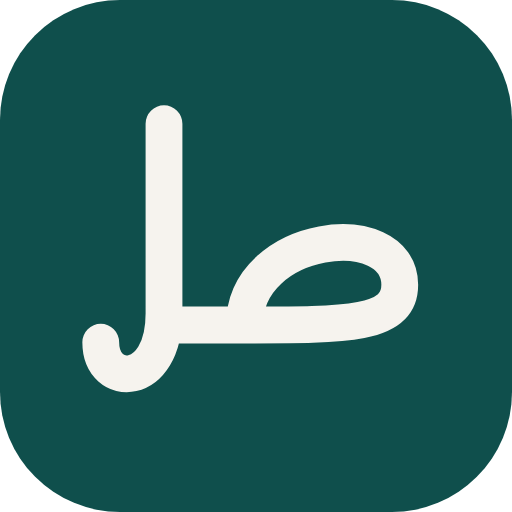
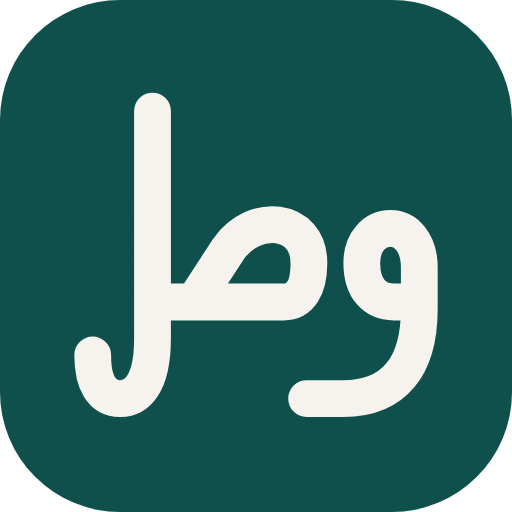
Brand mark: spell the full word وصل instead of صل
Redraw MASTER (32 grid, 3.2 stroke) and HINTED (16 grid, 2 stroke) from
IBM Plex Sans Arabic's shaped وصل: the ل with ascender and descender bowl,
the baseline into the ص bowl, and the non-joining و with its tail tucked
under the ص. The ص tooth is dropped so the bowl stays open at small sizes.
The hinted drawing keeps a one-pixel gap between ل and ص and a one-pixel
hole in the ص bowl.

Regenerate icon.svg, apple-icon, favicon.ico and the 192/512/maskable
PNGs with scripts/build-brand.tsx, whose bare-mark bounds now span 31.6
of 32 units.

Changed region(s): [[0.125, 0.1562, 0.875, 0.8125]]

diff --git a/web/components/brand/mark.tsx b/web/components/brand/mark.tsx
@@ -11,18 +11,25 @@ export const BRAND = {
   sand: "#efe8dc",
 } as const;
 
-/** صل (صِلْ, "connect") from وصل: the ص bowl, the baseline and the ل as one stroke. */
+/**
+ * وصل ("connect", "link") in three strokes, redrawn from IBM Plex Sans Arabic's joined وصل as a single weight:
+ * the ل with its ascender and descender bowl, the baseline running into the ص bowl, and the non-joining و whose tail
+ * tucks under the ص. Condensed to fit the square; the ص tooth is dropped so the bowl stays open at small sizes.
+ */
 export const MASTER = {
   grid: 32,
   stroke: 3.2,
-  d: "M8 4.5V21C8 27.5 2.5 27.5 2.5 23.5M8 22H15C15 14 28.5 12.5 28.5 18.5C28.5 22 24 22 15 22",
+  d: "M7 3.4V23.2C7 27.2 5.6 28.4 4.2 28.4C2.6 28.4 1.8 27 1.8 24.6M7 20H18.4C19.8 20 20.6 18.8 20.6 16.6C20.6 12.6 15.8 12.2 13.6 15.4L10.6 20M20.4 28.4H23.6C28 28.4 30.2 25.6 30.2 20.6V17C30.2 14.8 29 13.6 27.7 13.6C26.3 13.6 25.2 14.8 25.2 16.6C25.2 18.8 26.3 20 28 20H30.2",
 } as const;
 
-/** The 16px drawing: stem on x=5 and baseline on y=11, so both 2px strokes land on whole pixels. Already inset for the tile. */
+/**
+ * The 16px drawing: ل stem on x=4, baseline on y=11 and the و stem on x=14, so the 2px strokes land on whole pixels,
+ * with a one-pixel gap between ل and ص and a one-pixel hole in the ص bowl. Already inset for the tile.
+ */
 export const HINTED = {
   grid: 16,
   stroke: 2,
-  d: "M5 3V10.5C5 13.5 2.5 13.5 2.5 12.5M5 11H8C8 5 14.5 4.5 14.5 8.5C14.5 11 12 11 8 11",
+  d: "M4 2.5V12.4C4 13.4 3.5 14 2.8 14C2.3 14 2 13.6 2 13V12M4 11H9C9.6 11 10 10.6 10 10V7.4C10 6.6 9.4 6 8.6 6H8.4C7.6 6 7 6.6 7 7.4V9.2L6.2 11M14 11H13.2C12.6 11 12.5 10.4 12.5 9.6V8.4C12.5 7.8 12.9 7.5 13.3 7.5C13.8 7.5 14 7.8 14 8.4V12.4C14 13.4 13.4 14 12.4 14H10.5",
 } as const;
 
 const TILE_INSET = 4.5;
@@ -108,7 +115,7 @@ export function Mark({
 }
 
 /**
- * The logo: the صل symbol beside the Latin wordmark "Wasl". Never set وصل beside it; the symbol already says it.
+ * The logo: the وصل symbol beside the Latin wordmark "Wasl". Never set وصل as text beside it; the symbol already says it.
  * Sized by font-size (the symbol is 1em tall), so a fluid text size scales the whole lockup.
  * `color` makes it one colour.
  */

diff --git a/web/components/brand/concepts/sad.tsx b/web/components/brand/concepts/sad.tsx
@@ -1,11 +1,11 @@
 import { HINTED, MASTER } from "../mark";
 import type { Concept } from "./types";
 
-/** c) صل from وصل as one thread: the ص bowl, the baseline, and the ل rising out of it. Chosen; the product draws it from `../mark`. */
+/** c) Began as صل from وصل as one thread; now the full word وصل in the same stroke. Chosen; the product draws it from `../mark`. */
 export const sad: Concept = {
   id: "sad",
-  name: "Sad-lam thread",
-  idea: "The connected ص and ل of وصل drawn as a single unbroken thread.",
+  name: "Wasl thread",
+  idea: "وصل drawn as one weight of stroke: the و, the ص bowl and the ل joined along the baseline.",
   draw: (ink) => (
     <g fill="none" stroke={ink} strokeWidth={MASTER.stroke} strokeLinecap="round" strokeLinejoin="round">
       <path d={MASTER.d} />

diff --git a/web/scripts/build-brand.tsx b/web/scripts/build-brand.tsx
@@ -11,8 +11,8 @@ import { BRAND, Mark } from "../components/brand/mark";
 const root = join(__dirname, "..");
 const svg = (el: React.ReactElement) => renderToStaticMarkup(el).replace(/ (class|data-brand|aria-hidden)="[^"]*"/g, "");
 
-/** The bare mark's stroked bounds span 29.2 of its 32 units. */
-const BARE_FILL = 29.2 / 32;
+/** The bare mark's stroked bounds span 31.6 of its 32 units (x 0.2 to 31.8). */
+const BARE_FILL = 31.6 / 32;
 
 function fullBleed(side: number, markShare: number) {
   const size = Math.round((side * markShare) / BARE_FILL);
